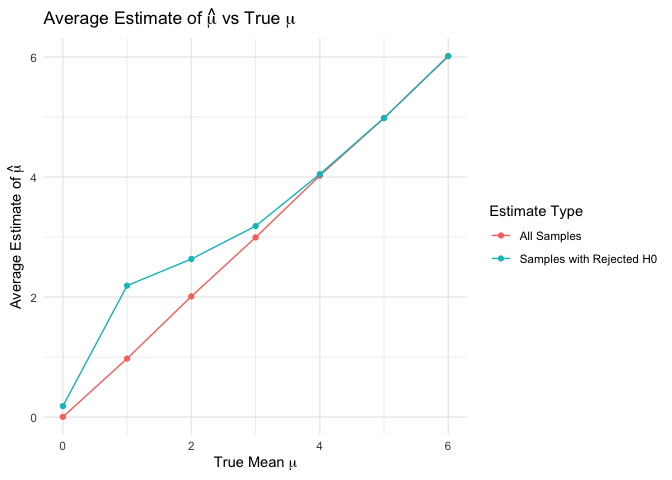
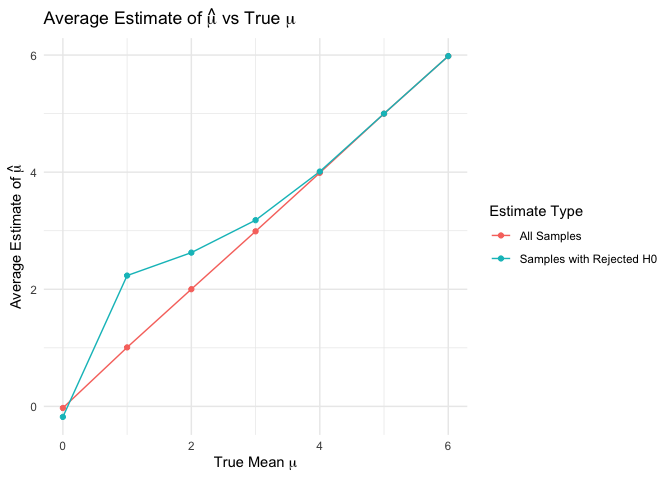
Problem2: unset cache for reporducibility

diff --git a/p8105_hw5_mw3845.md b/p8105_hw5_mw3845.md
@@ -94,19 +94,19 @@ sim_results_df |>
 
 | parameter | mu_vec | emp_mean | emp_var |
 |:----------|-------:|---------:|--------:|
-| estimate  |      0 |  0.00343 | 0.81876 |
-| estimate  |      1 |  0.97576 | 0.80081 |
-| estimate  |      2 |  2.01126 | 0.86012 |
-| estimate  |      3 |  2.99443 | 0.83346 |
-| estimate  |      4 |  4.02374 | 0.85146 |
-| estimate  |      5 |  4.98289 | 0.84990 |
-| estimate  |      6 |  6.01582 | 0.82393 |
-| p.value   |      0 |  0.50076 | 0.08290 |
-| p.value   |      1 |  0.35301 | 0.08953 |
-| p.value   |      2 |  0.11915 | 0.03632 |
-| p.value   |      3 |  0.02409 | 0.00514 |
-| p.value   |      4 |  0.00288 | 0.00021 |
-| p.value   |      5 |  0.00035 | 0.00001 |
+| estimate  |      0 | -0.02722 | 0.82625 |
+| estimate  |      1 |  1.00747 | 0.81426 |
+| estimate  |      2 |  2.00116 | 0.87167 |
+| estimate  |      3 |  2.98965 | 0.81862 |
+| estimate  |      4 |  3.98898 | 0.81001 |
+| estimate  |      5 |  4.99834 | 0.86451 |
+| estimate  |      6 |  5.98194 | 0.85229 |
+| p.value   |      0 |  0.50358 | 0.08267 |
+| p.value   |      1 |  0.33983 | 0.08671 |
+| p.value   |      2 |  0.12044 | 0.03750 |
+| p.value   |      3 |  0.02383 | 0.00482 |
+| p.value   |      4 |  0.00276 | 0.00018 |
+| p.value   |      5 |  0.00034 | 0.00001 |
 | p.value   |      6 |  0.00002 | 0.00000 |
 
 With the table containing empirical mean and variance for estimate and
